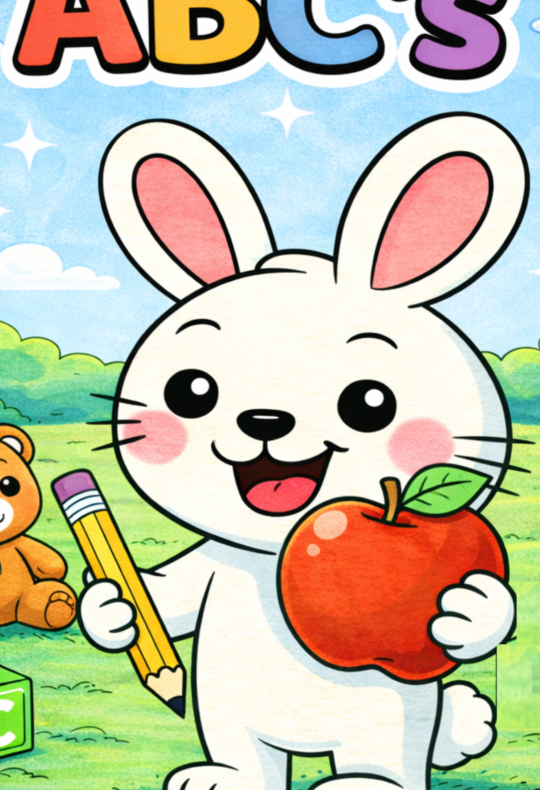
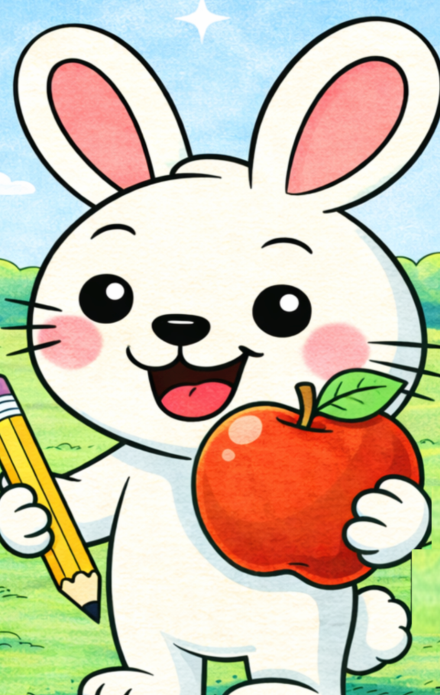
Add files via upload

diff --git a/site_utils.py b/site_utils.py
@@ -87,12 +87,76 @@ def add_css():
             border: 6px solid white;
             padding: 3rem 3rem 2.5rem;
             background:
-                radial-gradient(circle at 82% 13%, #ffe86a 0 70px, transparent 73px),
                 radial-gradient(circle at 18% 18%, rgba(255,255,255,.95) 0 44px, transparent 46px),
                 radial-gradient(circle at 25% 16%, rgba(255,255,255,.95) 0 58px, transparent 60px),
                 linear-gradient(180deg, #66cfff 0%, #c9f0ff 53%, #a7e57f 54%, #65bf54 100%);
             box-shadow: 0 15px 0 rgba(65,53,74,.08), 0 28px 55px rgba(56,77,91,.16);
             margin-bottom: 1.8rem;
+        }
+
+
+        .sun-face {
+            position: absolute;
+            top: 22px;
+            right: 44px;
+            width: 110px;
+            height: 110px;
+            border-radius: 50%;
+            background: #ffd94f;
+            display: flex;
+            align-items: center;
+            justify-content: center;
+            font-size: 2.1rem;
+            box-shadow: 0 0 0 10px rgba(255,217,79,.22);
+            z-index: 1;
+        }
+
+        .sun-face span {
+            transform: translateY(2px);
+        }
+
+        .sun-face:before {
+            content: "";
+            position: absolute;
+            inset: -18px;
+            border-radius: 50%;
+            background:
+                conic-gradient(from 0deg,
+                    transparent 0 8deg,
+                    #ffd94f 8deg 14deg,
+                    transparent 14deg 30deg,
+                    #ffd94f 30deg 36deg,
+                    transparent 36deg 52deg,
+                    #ffd94f 52deg 58deg,
+                    transparent 58deg 74deg,
+                    #ffd94f 74deg 80deg,
+                    transparent 80deg 96deg,
+                    #ffd94f 96deg 102deg,
+                    transparent 102deg 118deg,
+                    #ffd94f 118deg 124deg,
+                    transparent 124deg 140deg,
+                    #ffd94f 140deg 146deg,
+                    transparent 146deg 162deg,
+                    #ffd94f 162deg 168deg,
+                    transparent 168deg 184deg,
+                    #ffd94f 184deg 190deg,
+                    transparent 190deg 206deg,
+                    #ffd94f 206deg 212deg,
+                    transparent 212deg 228deg,
+                    #ffd94f 228deg 234deg,
+                    transparent 234deg 250deg,
+                    #ffd94f 250deg 256deg,
+                    transparent 256deg 272deg,
+                    #ffd94f 272deg 278deg,
+                    transparent 278deg 294deg,
+                    #ffd94f 294deg 300deg,
+                    transparent 300deg 316deg,
+                    #ffd94f 316deg 322deg,
+                    transparent 322deg 338deg,
+                    #ffd94f 338deg 344deg,
+                    transparent 344deg 360deg);
+            z-index: -1;
+            opacity: .9;
         }
 
         .brand-hero:after {
@@ -152,12 +216,12 @@ def add_css():
             z-index: 2;
             right: 24px;
             bottom: 18px;
-            width: min(40%, 390px);
-            max-height: 365px;
-            object-fit: contain;
-            object-position: center bottom;
+            width: min(38%, 340px);
+            max-height: 380px;
+            object-fit: cover;
+            object-position: center top;
             border: 5px solid white;
-            border-radius: 40px 40px 18px 18px;
+            border-radius: 36px;
             box-shadow: 0 16px 30px rgba(43,62,66,.18);
             background: rgba(255,255,255,.18);
         }
@@ -201,10 +265,10 @@ def add_css():
 
         .card-benny-img {
             display:block;
-            width:118px;
-            height:118px;
+            width:124px;
+            height:124px;
             object-fit:cover;
-            object-position:center 32%;
+            object-position:center top;
             margin:1.8rem auto .2rem;
             border:4px solid white;
             border-radius:50%;
@@ -343,12 +407,12 @@ def add_css():
             z-index:2;
             right:28px;
             bottom:16px;
-            width:min(38%,350px);
-            max-height:330px;
-            object-fit:contain;
-            object-position:center bottom;
+            width:min(36%,320px);
+            max-height:340px;
+            object-fit:cover;
+            object-position:center top;
             border:5px solid white;
-            border-radius:38px 38px 16px 16px;
+            border-radius:32px;
             box-shadow:0 15px 28px rgba(45,67,70,.18);
             background:rgba(255,255,255,.16);
         }
@@ -398,13 +462,21 @@ def add_css():
                 position: relative;
                 right: auto;
                 bottom: auto;
-                width: min(88%, 360px);
+                width: min(86%, 330px);
                 max-height: none;
                 display: block;
                 margin: 1.15rem auto .2rem;
                 transform: none;
-                object-fit: contain;
-                object-position: center;
+                object-fit: cover;
+                object-position: center top;
+            }
+
+            .sun-face {
+                top: 18px;
+                right: 18px;
+                width: 84px;
+                height: 84px;
+                font-size: 1.6rem;
             }
 
             .reading-garden-hero {
@@ -420,13 +492,13 @@ def add_css():
                 position: relative;
                 right: auto;
                 bottom: auto;
-                width: min(86%, 340px);
+                width: min(84%, 320px);
                 max-height: none;
                 display: block;
                 margin: 1.1rem auto .2rem;
                 transform: none;
-                object-fit: contain;
-                object-position: center;
+                object-fit: cover;
+                object-position: center top;
             }
 
             .card-benny-img {

diff --git a/app.py b/app.py
@@ -22,7 +22,7 @@ st.markdown(
       <div class="brand-copy">
         <div class="speech-bubble">Hi, friend! I'm Benny! Let's learn together! 🌈</div>
         <div class="rainbow-title">
-          <span class="y">Benny</span>
+          <span class="y">Benny's</span><br>
           <span class="b">Learning</span><br>
           <span class="r">W</span><span class="o">o</span><span class="y">r</span><span class="g">l</span><span class="p">d</span>
         </div>
@@ -31,6 +31,7 @@ st.markdown(
           and watch Benny's stories come to life — all in the same cheerful world as the books.
         </div>
       </div>
+      <div class="sun-face" aria-hidden="true"><span>😊</span></div>
       <img class="hero-benny-img" src="{benny}" alt="Benny the Bunny">
     </div>
     """,
